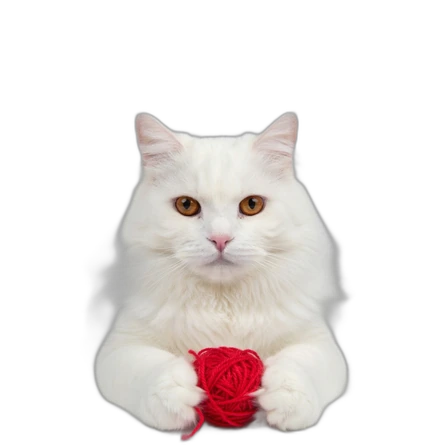
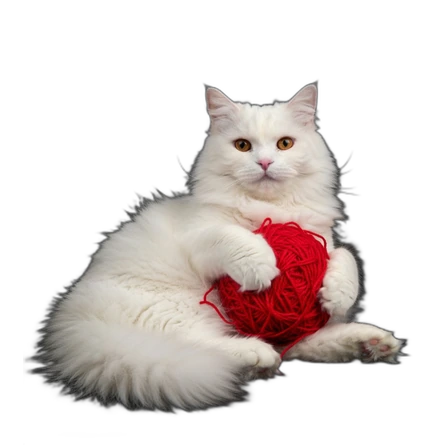
feat: prettier playing pose with a real velvet cushion
Regenerate the playing cat with a large yarn ball and replace the CSS cushion blobs with one Grok-generated burgundy velvet cushion shared by every mood.

diff --git a/src/styles/shelf.css b/src/styles/shelf.css
@@ -2936,3 +2936,43 @@
 
 .shelf-decor { pointer-events: auto; }
 .shelf-decor .deco-stack { pointer-events: none; }
+
+/* real velvet cushion asset behind every cat pose */
+.cat-pet::before,
+.cat-pet::after {
+  display: none;
+  content: none;
+}
+
+.cat-cushion {
+  position: absolute;
+  left: -3%;
+  right: -3%;
+  bottom: -1%;
+  z-index: -1;
+  width: 106%;
+  height: 62%;
+  object-fit: contain;
+  object-position: center bottom;
+  filter: drop-shadow(0 8px 9px rgba(0, 0, 0, 0.5));
+  pointer-events: none;
+}
+
+.cat-cushion {
+  left: -10%;
+  right: -10%;
+  bottom: -5%;
+  width: 120%;
+  height: 76%;
+  filter: brightness(1.12) saturate(1.06) drop-shadow(0 9px 10px rgba(0, 0, 0, 0.55));
+}
+
+.cat-figure { transform: translateY(-5px); }
+.cat-cushion {
+  height: 82%;
+  bottom: -6%;
+  width: 124%;
+  left: -12%;
+  right: -12%;
+  filter: brightness(1.08) saturate(1.05) drop-shadow(0 9px 11px rgba(0, 0, 0, 0.5));
+}

diff --git a/src/components/Shelf/ShelfCat.tsx b/src/components/Shelf/ShelfCat.tsx
@@ -229,6 +229,7 @@ export function ShelfCat({ dragActive = false, x = 82, dragging = false, movable
         aria-label="摸摸书架上的猫；双击让它伸懒腰"
         title="摸摸猫 · 双击伸懒腰"
       >
+        <img className="cat-cushion" src={`${decorBase}cat-cushion.webp`} alt="" draggable={false} />
         <img className="cat-figure" src={`${decorBase}${catImage}`} alt="" draggable={false} />
       </button>
 
